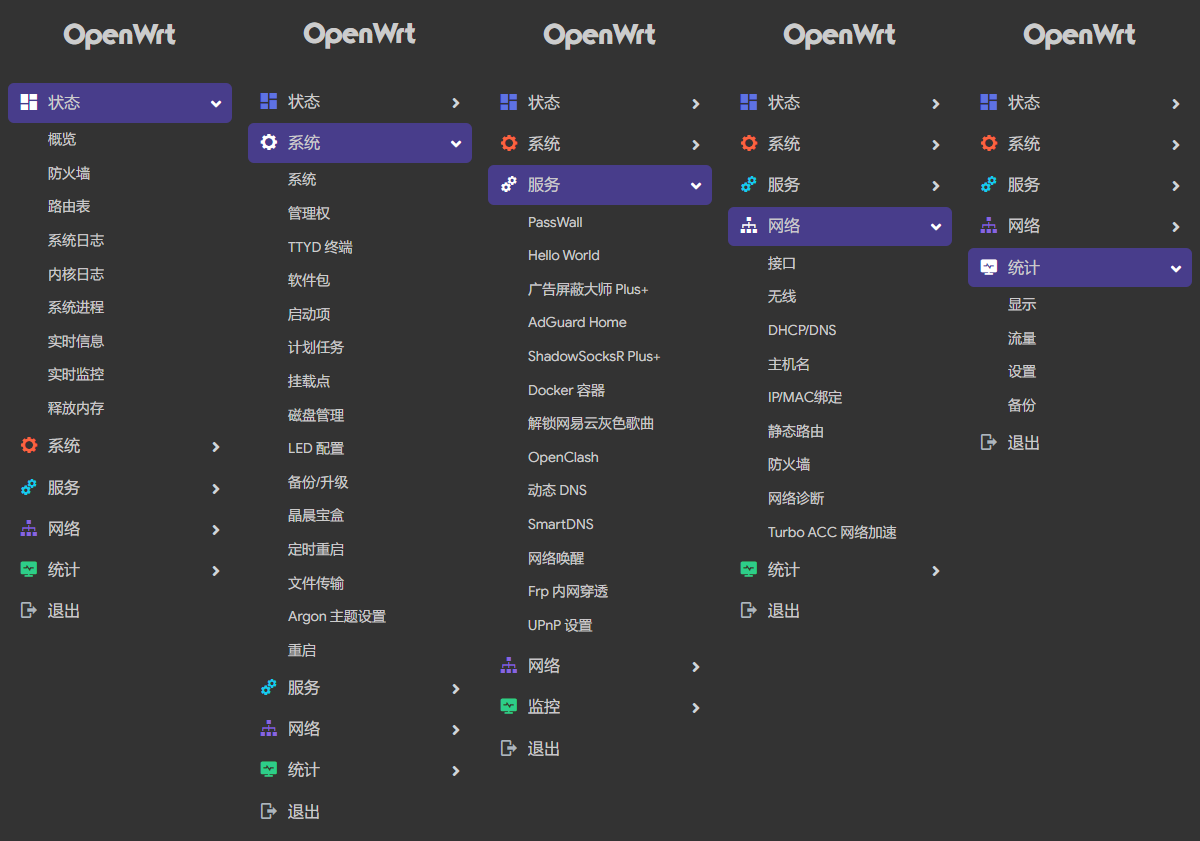
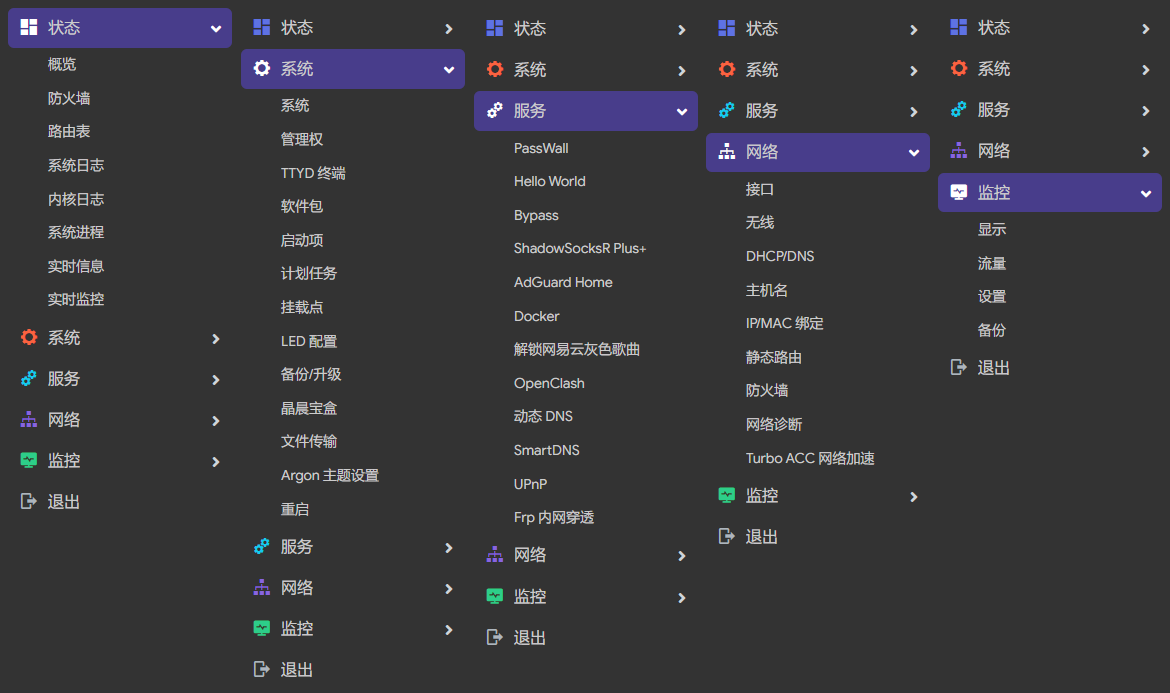
对固件插件进行调整

diff --git a/README.md b/README.md
@@ -71,6 +71,7 @@
 　├── 系统进程<br/>
 　├── 实时信息<br/>
 　├── 实时监控<br/>
+　├── WireGuard 状态<br/>
 　├── 负载均衡<br/>
 　└── 释放内存
 </details>
@@ -99,16 +100,16 @@
 　├── Hello World<br/>
 　├── iKoolProxy 滤广告<br/>
 　├── Bypass<br/>
-　├── DNS 过滤器<br/>
 　├── 广告屏蔽大师 Plus+<br/>
 　├── 阿里云盘 FUSE<br/>
 　├── 阿里云盘 WebDAV<br/>
 　├── AdGuard Home<br/>
 　├── ShadowSocksR Plus+<br/>
-　├── DDNS.to内网穿透<br/>
+　├── DDNSTO 远程控制<br/>
 　├── 微信推送<br/>
 　├── 上网时间控制<br/>
 　├── 全能推送<br/>
+　├── MosDNS<br/>
 　├── OpenClash<br/>
 　├── 解锁网易云灰色歌曲<br/>
 　├── 动态 DNS<br/>
@@ -173,6 +174,7 @@
 　├── 静态路由<br/>
 　├── 防火墙<br/>
 　├── 诊断<br/>
+　├── Socat<br/>
 　├── SQM QoS<br/>
 　├── 应用过滤<br/>
 　├── 网速控制<br/>
